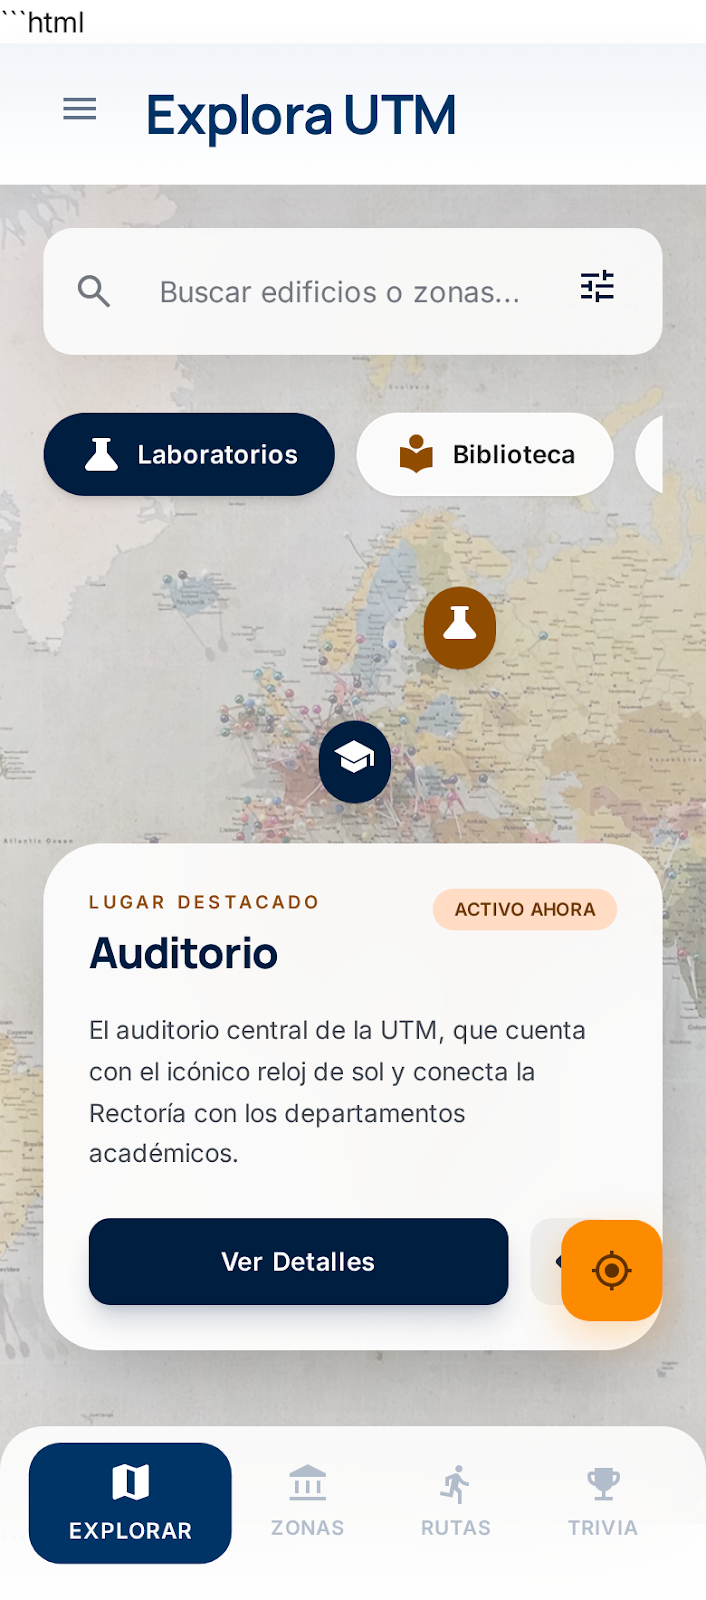
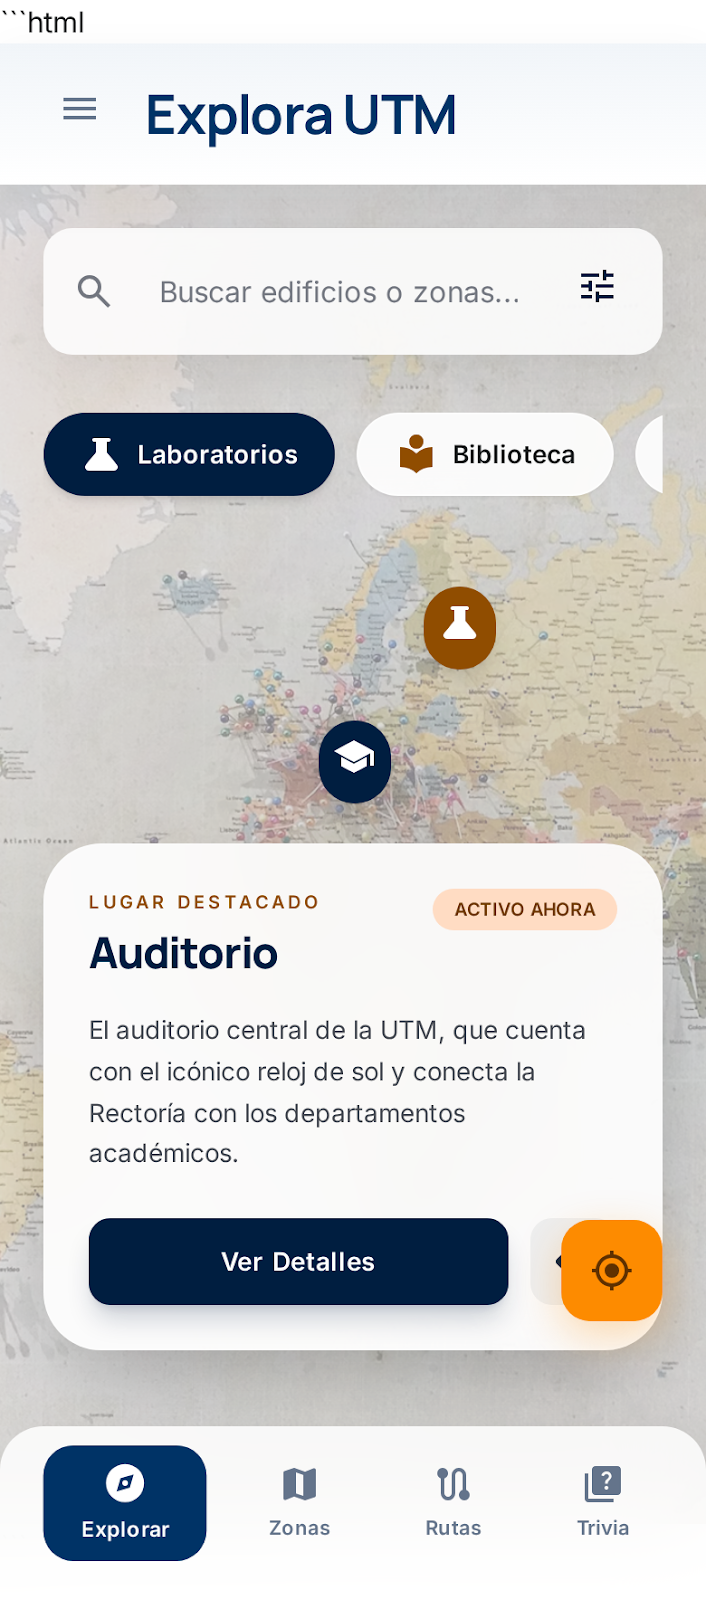
README finalizado

diff --git a/README.md b/README.md
@@ -16,13 +16,20 @@
 
 A continuación se describen las pantallas principales del prototipo actual:
 
-1.  **Pantalla de Exploración (Home):** Un mapa interactivo con filtros rápidos (Laboratorios, Biblioteca) y una tarjeta de "Lugar Destacado" (como la Explanada Principal) que muestra eventos activos.
-2.  **Zonas y Actividades Cercanas:** Lista categorizada de edificios según su función (Zona Académica Sur, Tech Zone). Permite ver la distancia en metros desde la ubicación actual.
-3.  **Detalle del Lugar (Place Details):** Información extendida que incluye descripción arquitectónica, horarios de atención, datos curiosos ("Fun Facts") y una galería visual.
-4.  **Rutas y Senderos:** Sugerencias de recorridos dentro del campus, como el "Circuito Deportivo" o el camino al "Mirador del Atardecer", indicando tiempo estimado y dificultad.
-
-### Bocetos de la Aplicación
+1.  **Pantalla de Exploración (Home):** Un mapa interactivo con filtros rápidos (Laboratorios, Biblioteca) y una tarjeta de "Lugar Destacado" (como el auditorio) que muestra un resumen y un boton "Ver detalles" para ir a la pantalla de detalle del lugar.
+<br>
 <img src="screenshots/inicio_explora_pantalla.png" width="300" alt="Pantalla Principal">
+
+2.  **Zonas y Lugares Cercanos:** Pantalla en la que se muestra informacion extendida y los detalles de cada una de las zonas de la universidad, funcionalidad para saber como llegar a ese lugar, horarios de atencion, datos curiosos, tarjetas de lugares cercanos.
+<br>
+<img src="screenshots/lugares_cercanos_pantalla.png" width="300" alt="Pantalla de Lugares Cercanos">
+
+4.  **Rutas y Senderos:** Sugerencias de recorridos dentro del campus, como el "Circuito Deportivo" o el camino al "Mirador del Atardecer", indicando tiempo estimado y dificultad.
+<br>
+<img src="screenshots/rutas_pantalla.png" width="300" alt="Pantalla de Rutas">
+
+5.  **Trivia:** Pantalla en la que se muestra un juego de trivia sobre la universidad, con preguntas y respuestas sobre la historia, cultura y lugares emblemáticos de la UTM.
+<br>
 <img src="screenshots/trivia_pantalla.png" width="300" alt="Pantalla de Trivia">
 
 
